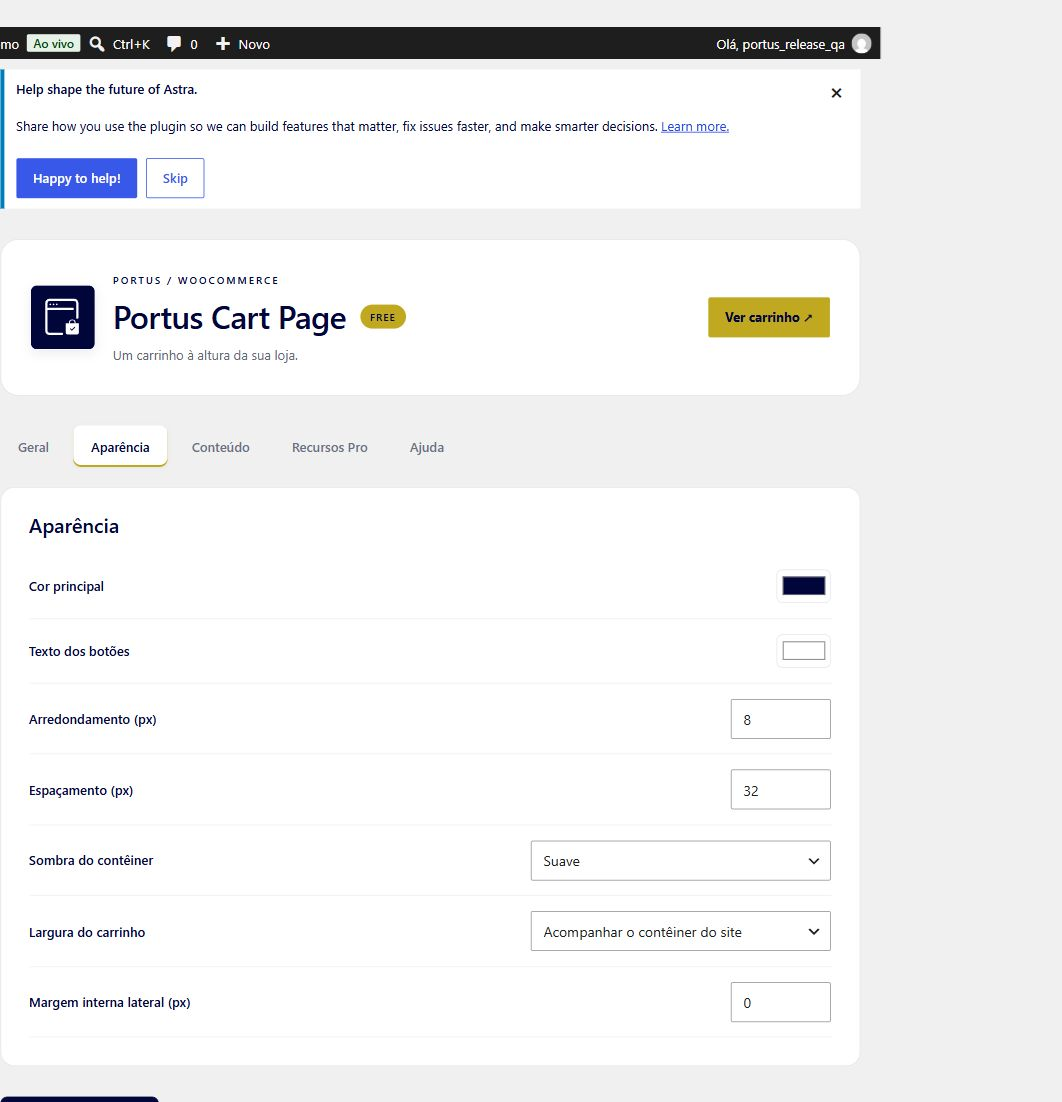
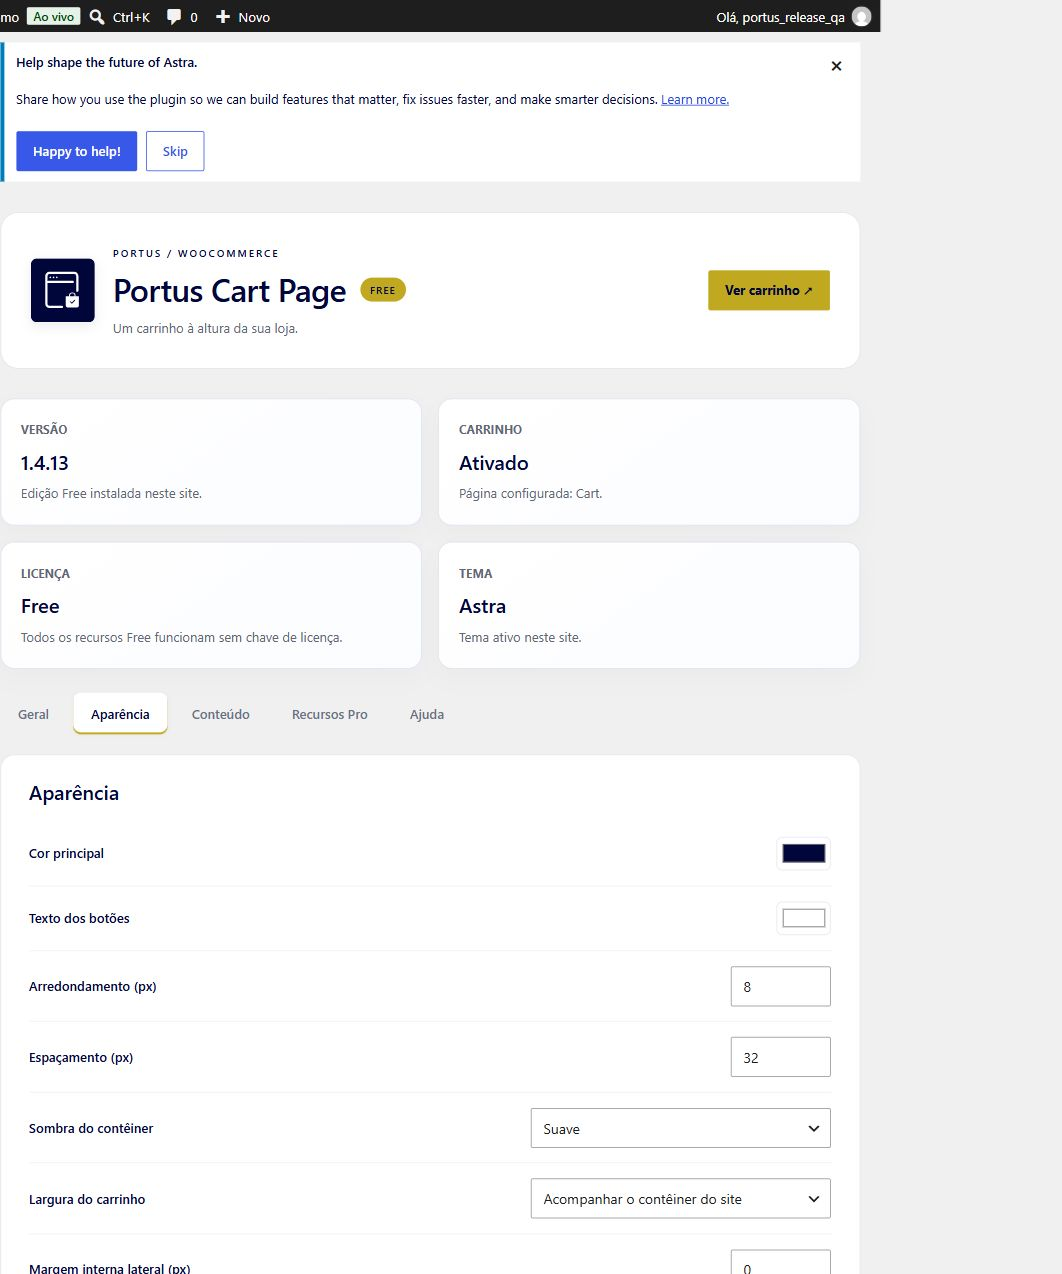
Add dynamic admin overview cards in Free 1.4.13

diff --git a/assets/admin.css b/assets/admin.css
@@ -333,4 +333,11 @@
 .pcp-admin-brand-copy { min-width:0; }
 .pcp-admin-brand-copy h2 { flex-wrap:wrap; letter-spacing:-.6px; }
 .pcp-admin-brand-copy p { margin:0; color:#626675; line-height:1.6; }
+.pcp-overview { display:grid; grid-template-columns:repeat(4,minmax(0,1fr)); gap:16px; margin:0 0 24px; }
+.pcp-overview-card { min-width:0; padding:22px 20px; border:1px solid #dfe3ef; border-radius:14px; background:linear-gradient(145deg,#fff,#fbfcff); box-shadow:0 10px 24px #00053a06; }
+.pcp-overview-card h3 { margin:0 0 10px; color:#626675; font-size:12px; line-height:1.4; font-weight:700; text-transform:uppercase; }
+.pcp-overview-card .pcp-overview-value { margin:0 0 7px; color:#00053a; font-size:20px; line-height:1.35; font-weight:600; overflow-wrap:anywhere; }
+.pcp-overview-card .pcp-overview-description { margin:0; color:#626675; font-size:13px; line-height:1.6; overflow-wrap:anywhere; }
+@media(max-width:1100px) { .pcp-overview { grid-template-columns:repeat(2,minmax(0,1fr)); } }
+@media(max-width:600px) { .pcp-overview { grid-template-columns:1fr; gap:12px; } .pcp-overview-card { padding:18px; } }
 @media(max-width:600px) { .pcp-admin-header > .pcp-admin-brand { gap:14px; } .pcp-admin-logo { width:52px; height:52px; flex-basis:52px; border-radius:5px; } .pcp-admin-brand-copy h2 { font-size:24px; gap:8px; } }

diff --git a/includes/class-settings.php b/includes/class-settings.php
@@ -120,6 +120,61 @@ final class Settings {
         wp_safe_redirect(admin_url('admin.php?page=portus-cart-page&reset=1')); exit;
     }
 
+    /** Read-only overview; license verification remains in the separate Pro add-on. */
+    public static function overview(array $settings): array {
+        $pro = defined('PORTUS_CART_PAGE_PRO_VERSION');
+        $version = $pro ? (string) PORTUS_CART_PAGE_PRO_VERSION : PORTUS_CART_PAGE_VERSION;
+        /* translators: %s is the installed Free plugin version. */
+        $version_description = $pro ? sprintf(__('Base Free %s instalada neste site.', 'portus-cart-page'), PORTUS_CART_PAGE_VERSION) : __('Edição Free instalada neste site.', 'portus-cart-page');
+        $cart_value = __('Configurar página', 'portus-cart-page');
+        $cart_description = __('Defina a página de carrinho nas configurações avançadas do WooCommerce.', 'portus-cart-page');
+        if (!class_exists('WooCommerce') || !function_exists('wc_get_page_id')) {
+            $cart_value = __('WooCommerce inativo', 'portus-cart-page');
+            $cart_description = __('Ative o WooCommerce para usar a página de carrinho.', 'portus-cart-page');
+        } else {
+            $cart_id = wc_get_page_id('cart');
+            if ($cart_id > 0 && get_post_status($cart_id) === 'publish') {
+                $cart_value = empty($settings['enabled']) ? __('Desativado', 'portus-cart-page') : __('Ativado', 'portus-cart-page');
+                /* translators: %s is the title of the configured cart page. */
+                $cart_description = sprintf(__('Página configurada: %s.', 'portus-cart-page'), wp_strip_all_tags(get_the_title($cart_id)));
+                if (!empty($settings['enabled']) && empty($settings['replace_blocks']) && has_block('woocommerce/cart', get_post($cart_id))) {
+                    $cart_value = __('Bloco nativo', 'portus-cart-page');
+                    $cart_description = __('A substituição do bloco Carrinho está desativada.', 'portus-cart-page');
+                }
+            } elseif ($cart_id > 0) {
+                $cart_value = __('Página não publicada', 'portus-cart-page');
+                $cart_description = __('Publique a página de carrinho configurada no WooCommerce.', 'portus-cart-page');
+            }
+        }
+        $license_value = $pro ? __('Pro instalado', 'portus-cart-page') : __('Free', 'portus-cart-page');
+        $license_description = $pro ? __('Consulte a aba Licença Pro para verificar atualizações e suporte.', 'portus-cart-page') : __('Todos os recursos Free funcionam sem chave de licença.', 'portus-cart-page');
+        // Consume only the add-on's public, cached display status. No key access,
+        // HTTP request, activation or feature gating is implemented in Free.
+        $provider = ['\\Portus\\CartPagePro\\Pro', 'license_status'];
+        if ($pro && is_callable($provider)) {
+            $cached = call_user_func($provider);
+            $labels = [
+                'valid' => __('Ativa', 'portus-cart-page'),
+                'expired' => __('Expirada', 'portus-cart-page'),
+                'inactive' => __('Não ativada', 'portus-cart-page'),
+                'invalid' => __('Verificar licença', 'portus-cart-page'),
+                'unavailable' => __('Verificação indisponível', 'portus-cart-page'),
+            ];
+            $license_value = $labels[$cached['status'] ?? 'unavailable'] ?? $labels['unavailable'];
+            $license_description = __('Último status informado pela extensão Pro. Consulte a aba Licença Pro.', 'portus-cart-page');
+        }
+        $theme = wp_get_theme();
+        $parent = $theme->parent();
+        /* translators: %s is the name of the parent theme. */
+        $theme_description = $parent ? sprintf(__('Tema filho de %s.', 'portus-cart-page'), $parent->get('Name')) : __('Tema ativo neste site.', 'portus-cart-page');
+        return [
+            ['label' => __('Versão', 'portus-cart-page'), 'value' => $version, 'description' => $version_description],
+            ['label' => __('Carrinho', 'portus-cart-page'), 'value' => $cart_value, 'description' => $cart_description],
+            ['label' => __('Licença', 'portus-cart-page'), 'value' => $license_value, 'description' => $license_description],
+            ['label' => __('Tema', 'portus-cart-page'), 'value' => $theme->get('Name'), 'description' => $theme_description],
+        ];
+    }
+
     public static function page(): void {
         if (!current_user_can('manage_woocommerce')) { return; }
         $s = self::all(); $pro = defined('PORTUS_CART_PAGE_PRO_VERSION');
@@ -127,6 +182,11 @@ final class Settings {
         ?>
         <div class="wrap pcp-admin">
             <h1 class="screen-reader-text">Portus Cart Page</h1><header class="pcp-admin-header"><div class="pcp-admin-brand"><img class="pcp-admin-logo" src="<?php echo esc_url(plugin_dir_url(PORTUS_CART_PAGE_FILE) . 'assets/cart-page-icon.svg?ver=' . PORTUS_CART_PAGE_VERSION); ?>" alt="" aria-hidden="true" width="64" height="64"><div class="pcp-admin-brand-copy"><span class="pcp-eyebrow">PORTUS / WOOCOMMERCE</span><h2>Portus Cart Page <span class="pcp-badge"><?php echo $pro ? 'PRO' : 'FREE'; ?></span></h2><p><?php esc_html_e('Um carrinho à altura da sua loja.', 'portus-cart-page'); ?></p></div></div><a class="button" href="<?php echo esc_url(function_exists('wc_get_cart_url') ? wc_get_cart_url() : home_url()); ?>" target="_blank" rel="noopener"><?php esc_html_e('Ver carrinho ↗', 'portus-cart-page'); ?></a></header>
+            <section class="pcp-overview" aria-label="<?php esc_attr_e('Informações do plugin e da loja', 'portus-cart-page'); ?>">
+                <?php foreach (self::overview($s) as $card) : ?>
+                <div class="pcp-overview-card"><h3><?php echo esc_html($card['label']); ?></h3><p class="pcp-overview-value"><?php echo esc_html($card['value']); ?></p><p class="pcp-overview-description"><?php echo esc_html($card['description']); ?></p></div>
+                <?php endforeach; ?>
+            </section>
             <?php settings_errors(); ?>
             <?php // phpcs:ignore WordPress.Security.NonceVerification.Recommended -- Read-only success indicator; does not process or modify settings.
             if (isset($_GET['reset']) || isset($_GET['imported'])) : ?><div class="notice notice-success"><p><?php esc_html_e('Configurações atualizadas.', 'portus-cart-page'); ?></p></div><?php endif; ?>

diff --git a/portus-cart-page.php b/portus-cart-page.php
@@ -2,7 +2,7 @@
 /**
  * Plugin Name: Portus Cart Page
  * Description: Uma página de carrinho moderna e personalizável, com as regras nativas do WooCommerce.
- * Version: 1.4.12
+ * Version: 1.4.13
  * Author: Portus
  * Author URI: https://useportus.com/
  * Domain Path: /languages
@@ -16,7 +16,7 @@
  */
 namespace Portus\CartPage;
 defined('ABSPATH') || exit;
-define('PORTUS_CART_PAGE_VERSION', '1.4.12');
+define('PORTUS_CART_PAGE_VERSION', '1.4.13');
 define('PORTUS_CART_PAGE_FILE', __FILE__);
 define('PORTUS_CART_PAGE_DIR', plugin_dir_path(__FILE__));
 require_once __DIR__ . '/includes/class-settings.php';

diff --git a/README.md b/README.md
@@ -19,7 +19,7 @@ Give the cart page a clearer presentation while keeping WooCommerce responsible 
 - Responsive empty-cart presentation.
 - Settings for primary color, button text color, corners, spacing, cart heading, and description.
 - Local SVG icons with WebKit-compatible masks and image fallbacks.
-- A settings panel with the Portus logo and an illustrative appearance preview.
+- A settings panel with the Portus logo, four dynamic overview cards, and an illustrative appearance preview.
 - Scoped frontend styles and supported WooCommerce extension hooks.
 
 This plugin changes the cart page only. It does not add a side cart, replace checkout, create orders, or process payments. It can run alongside the separate [Portus Cart](https://github.com/useportus/portus-cart) side-cart plugin.
@@ -54,7 +54,7 @@ Exclude the cart and checkout from page caching. Theme overrides and third-party
 
 ## Free and Pro
 
-This public repository mirrors the Free WordPress.org edition of Portus Cart Page, currently version **1.4.12**.
+This public repository mirrors the Free WordPress.org edition of Portus Cart Page, currently version **1.4.13**.
 
 All functionality included here works without a license key, payment, trial period, or usage limit. Native cross-sell recommendations are included in Free.
 
